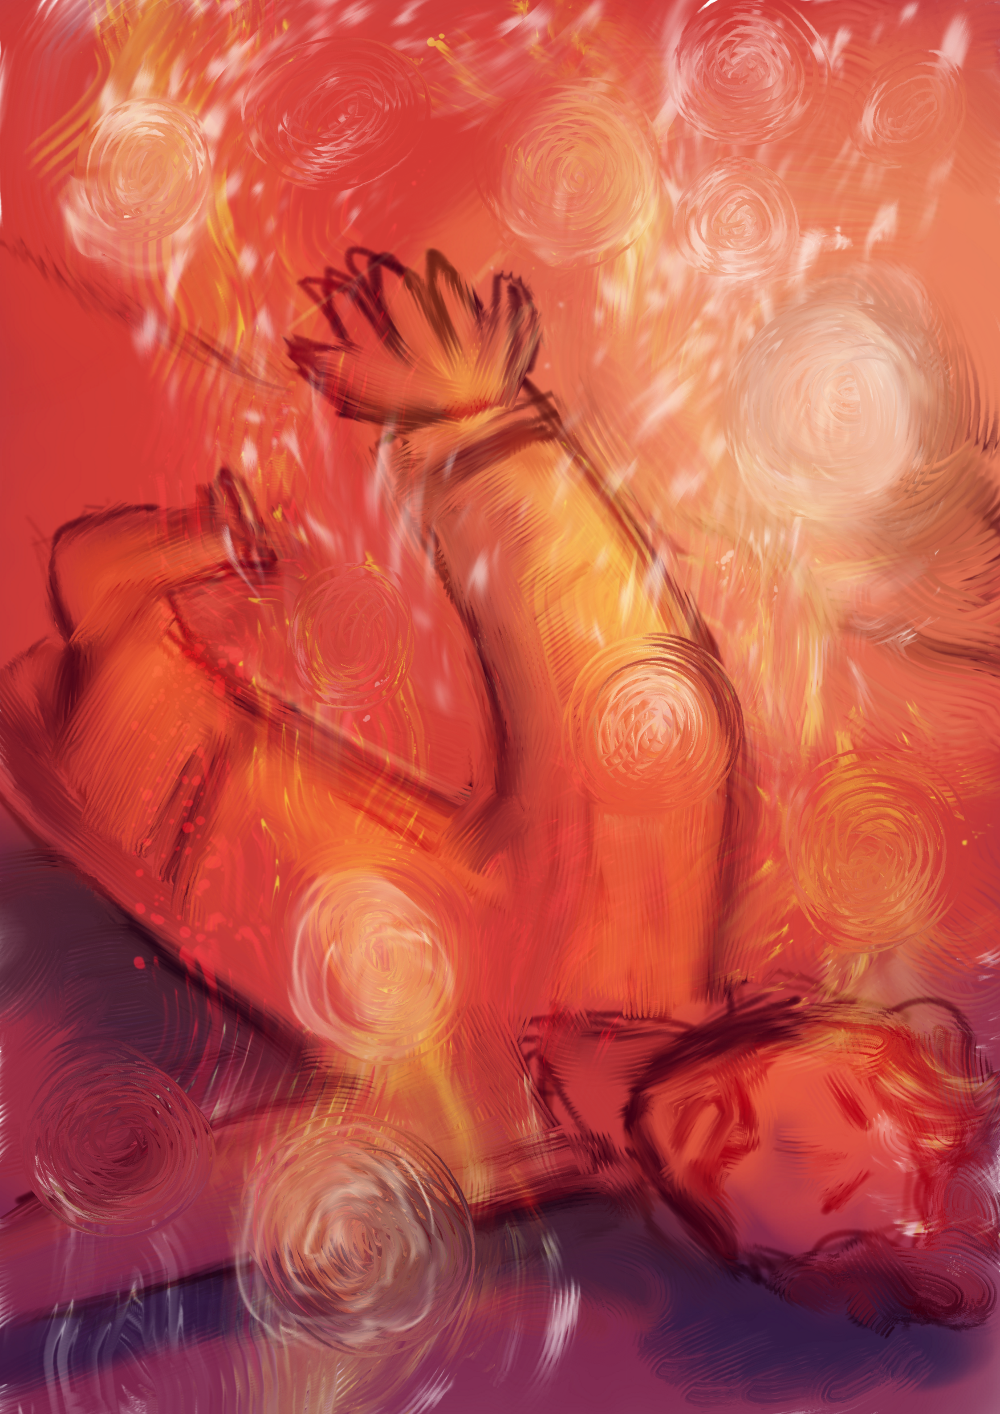
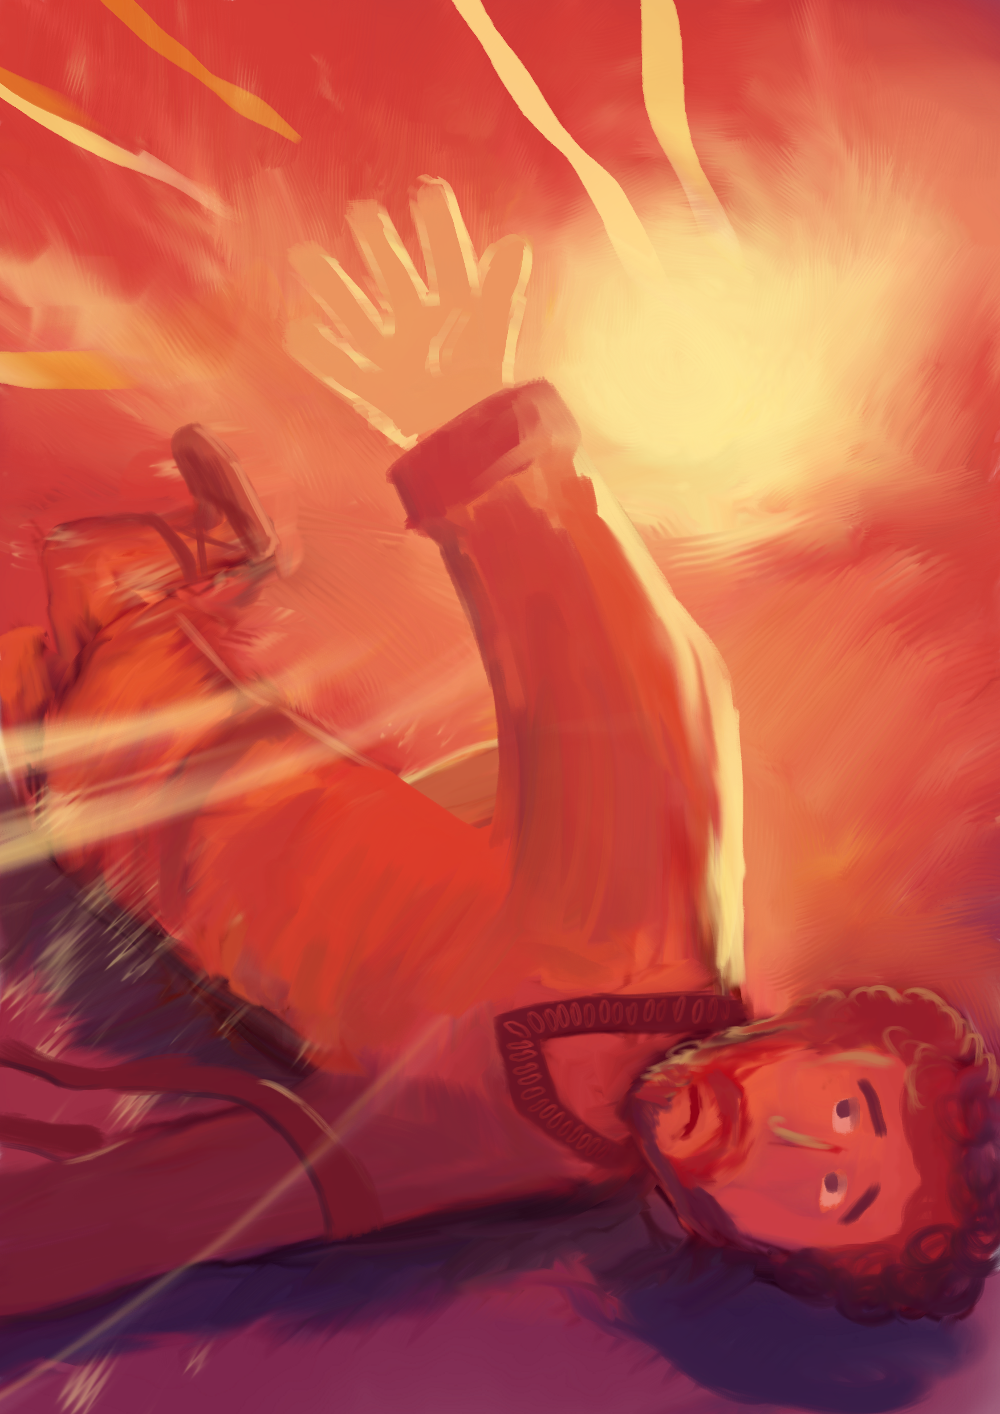
Update 52.

diff --git a/script.js b/script.js
@@ -4,7 +4,7 @@ angular.module('galleryApp', [])
     gallery.language = "ro";
     gallery.work_start_date = new Date(2016,05,20);
 
-    gallery.worked_hours = 154.5;  // EDIT HERE
+    gallery.worked_hours = 155;  // EDIT HERE
 
     gallery.get_global_progress = function() {
       var index;
@@ -593,7 +593,7 @@ angular.module('galleryApp', [])
       {
         id: 52,
         img: '52.png',
-        done: 50,
+        done: 100,
         text: {
           ro: "4:8B. Atunci a dorit să moară şi a zis: \"Mai bine să mor decât să trăiesc!\"",
           en: "4:8B. and wished in himself to die, and said, It is better for me to die than to live."
